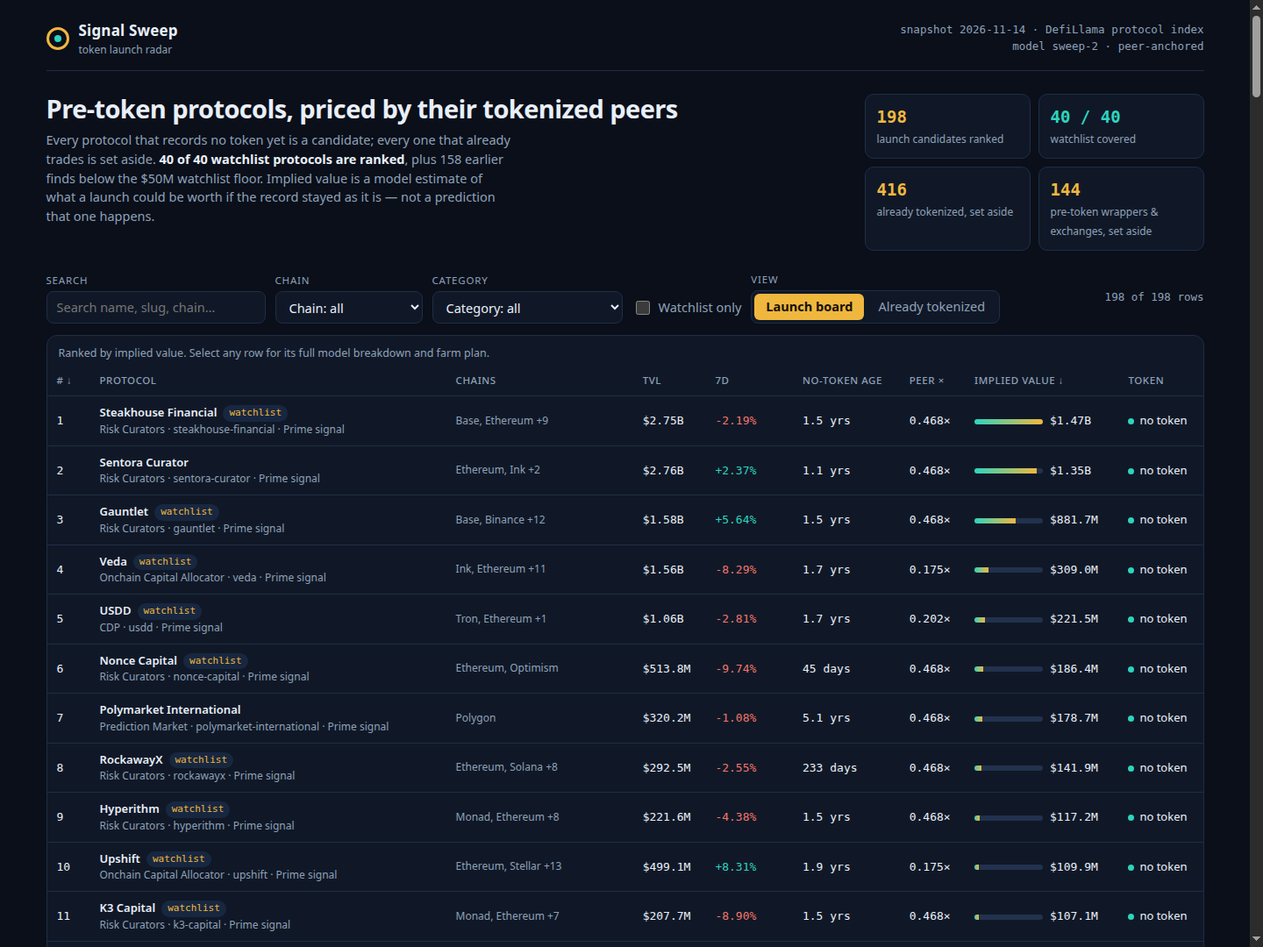
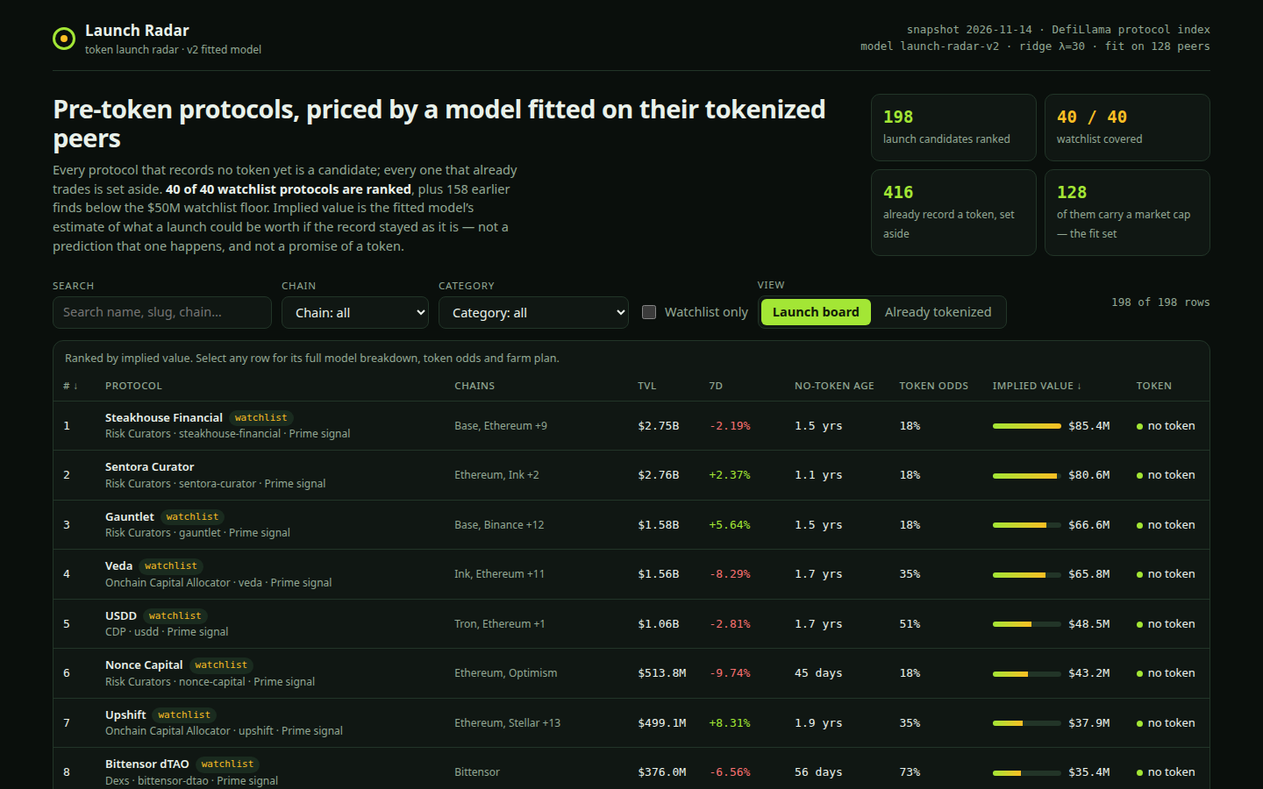
Launch Radar v2 dashboard: phosphor theme, methodology view, token odds
Sortable/filterable board with token-odds column, per-protocol detail
drawer with the additive log-space term breakdown and farm plan, and a
methodology section showing the fitted coefficients, both held-out
validations and the TVL-only baseline. Screenshots retaken from the
real running dashboard: board, detail, filtered.

Changed region(s): [[0.0312, 0.0, 1.0, 1.0]]

diff --git a/dashboard/app.js b/dashboard/app.js
@@ -1,13 +1,15 @@
-// Signal Sweep dashboard. Reads window.RADAR (data.js, written by main.ts beside
-// this folder) and renders the ranked board, chain / category / watchlist filters,
-// sortable columns, a tokenized set-aside view and a per-protocol detail drawer
-// whose farm plan is the exact text board.json carries. Fully offline.
+// Launch Radar v2 dashboard. Reads window.RADAR (data.js, written by main.ts
+// beside this folder) and renders the ranked board, chain / category /
+// watchlist filters, sortable columns, a tokenized set-aside view, a
+// methodology view with the fitted coefficients and both held-out validations,
+// and a per-protocol detail drawer whose model breakdown is the additive
+// log-space sum behind the board figure. Fully offline.
 (function () {
   'use strict';
   var DATA = window.RADAR;
   if (!DATA) return;
   var app = document.getElementById('board');
-  var C = DATA.counts;
+  var C = DATA.counts, M = DATA.model;
   var state = { q: '', category: 'all', chain: 'all', watch: false, tab: 'board', sort: 'implied', dir: -1, selected: null };
 
   var usdFmt = new Intl.NumberFormat('en-US', { style: 'currency', currency: 'USD', maximumFractionDigits: 0 });
@@ -24,20 +26,7 @@
     if (d >= 365) return (d / 365).toFixed(1) + ' yrs';
     return Math.round(d) + ' days';
   }
-  // Recompute the three snapshot-only multipliers for a row, to show in the detail
-  // view that the stored implied value is this arithmetic and nothing else. The
-  // peer multiple itself is read from the row: it is a median over tokenized peers.
-  function parts(row) {
-    var m = DATA.model;
-    var ch = row.change_7d === null || row.change_7d === undefined ? 0 : row.change_7d;
-    ch = Math.min(m.momentum_cap, Math.max(m.momentum_floor, ch));
-    var momentum = 1 + (ch / 100) * m.momentum_gain;
-    var age = row.age_days === null || row.age_days === undefined ? m.unknown_age_days : row.age_days;
-    var longevity = m.longevity_floor + m.longevity_range * Math.sqrt(Math.min(Math.max(age, 0), m.longevity_days) / m.longevity_days);
-    var breadth = 1 + m.breadth_step * Math.min(Math.max((row.chains || []).length - 1, 0), m.breadth_max_extra);
-    return { momentum: momentum, longevity: longevity, breadth: breadth,
-      check: Math.max(1, Math.round(row.tvl_usd * row.peer_multiple * momentum * longevity * breadth)) };
-  }
+  function fmtOdds(o) { return Math.round(o * 100) + '%'; }
   function el(tag, attrs) {
     var node = document.createElement(tag);
     if (attrs) Object.keys(attrs).forEach(function (k) {
@@ -98,7 +87,7 @@
       else if (key === 'tvl') { av = a.tvl_usd; bv = b.tvl_usd; }
       else if (key === 'growth') { av = a.change_7d === null ? -Infinity : a.change_7d; bv = b.change_7d === null ? -Infinity : b.change_7d; }
       else if (key === 'age') { av = a.age_days === null ? -1 : a.age_days; bv = b.age_days === null ? -1 : b.age_days; }
-      else if (key === 'peer') { av = a.peer_multiple; bv = b.peer_multiple; }
+      else if (key === 'odds') { av = a.token_odds; bv = b.token_odds; }
       else { av = a.implied_value_usd; bv = b.implied_value_usd; }
       if (av < bv) return -dir;
       if (av > bv) return dir;
@@ -109,27 +98,27 @@
   function header() {
     return el('header', { class: 'top' },
       el('div', { class: 'brand' }, el('span', { class: 'ring' }),
-        el('div', null, el('b', { text: 'Signal Sweep' }), el('span', { text: 'token launch radar' }))),
+        el('div', null, el('b', { text: 'Launch Radar' }), el('span', { text: 'token launch radar · v2 fitted model' }))),
       el('div', { class: 'meta' },
         'snapshot ' + DATA.as_of + ' · DefiLlama protocol index', el('br'),
-        'model ' + DATA.model_version + ' · peer-anchored'));
+        'model ' + DATA.model_version + ' · ridge λ=' + M.lambda + ' · fit on ' + M.fit_n + ' peers'));
   }
   function hero() {
-    function stat(value, label, teal) {
-      return el('div', { class: 'stat' + (teal ? ' teal' : '') }, el('b', { text: value }), el('span', { text: label }));
+    function stat(value, label, amber) {
+      return el('div', { class: 'stat' + (amber ? ' amber' : '') }, el('b', { text: value }), el('span', { text: label }));
     }
     return el('section', { class: 'hero' },
       el('div', null,
-        el('h1', { text: 'Pre-token protocols, priced by their tokenized peers' }),
-        el('p', { html: '' },
+        el('h1', { text: 'Pre-token protocols, priced by a model fitted on their tokenized peers' }),
+        el('p', null,
           'Every protocol that records no token yet is a candidate; every one that already trades is set aside. ',
           el('b', { text: C.watchlist + ' of ' + C.watchlist + ' watchlist protocols are ranked' }),
-          ', plus ' + C.early + ' earlier finds below the $' + Math.round(DATA.floor_usd / 1e6) + 'M watchlist floor. Implied value is a model estimate of what a launch could be worth if the record stayed as it is — not a prediction that one happens.')),
+          ', plus ' + C.early + ' earlier finds below the $' + Math.round(DATA.floor_usd / 1e6) + 'M watchlist floor. Implied value is the fitted model\u2019s estimate of what a launch could be worth if the record stayed as it is — not a prediction that one happens, and not a promise of a token.')),
       el('div', { class: 'stats' },
         stat(String(C.board), 'launch candidates ranked'),
         stat(C.watchlist + ' / ' + C.watchlist, 'watchlist covered', true),
-        stat(String(C.tokenized), 'already tokenized, set aside'),
-        stat(String(C.not_own_launch), 'pre-token wrappers & exchanges, set aside')));
+        stat(String(C.tokenized), 'already record a token, set aside'),
+        stat(String(M.fit_n), 'of them carry a market cap — the fit set')));
   }
   function controls() {
     var cats = Array.from(new Set(DATA.rows.map(function (r) { return r.category || 'Uncategorised'; }))).sort();
@@ -167,7 +156,7 @@
     var list = sorted(visibleRows());
     if (!list.length) {
       return el('div', { class: 'panel' }, el('div', { class: 'empty' },
-        el('h2', { text: 'Nothing on the sweep matches' }),
+        el('h2', { text: 'Nothing on the radar matches' }),
         el('p', { text: 'Clear the search or widen the chain and category filters.' }),
         el('button', { class: 'btn primary', type: 'button', text: 'Clear all filters', onclick: function () {
           state.q = ''; state.category = 'all'; state.chain = 'all'; state.watch = false; writeHash(); render();
@@ -186,7 +175,7 @@
         el('td', { class: 'num', text: fmtUsd(r.tvl_usd) }),
         el('td', { class: 'num ' + (r.change_7d === null ? '' : r.change_7d >= 0 ? 'pos' : 'neg'), text: fmtPct(r.change_7d) }),
         el('td', { class: 'num', text: fmtAge(r.age_days) }),
-        el('td', { class: 'num', text: r.peer_multiple.toFixed(3) + '×' }),
+        el('td', { class: 'num', text: fmtOdds(r.token_odds) }),
         el('td', null, el('span', { class: 'bar', 'aria-hidden': 'true' }, el('i', { style: 'width:' + Math.max(3, Math.round((r.implied_value_usd / max) * 100)) + '%' })),
           el('span', { class: 'num', text: fmtUsd(r.implied_value_usd) })),
         el('td', null, el('span', null, el('span', { class: 'dot' }), 'no token')));
@@ -194,11 +183,11 @@
     });
     return el('div', { class: 'panel' }, el('div', { class: 'table-wrap' },
       el('table', null,
-        el('caption', { text: 'Ranked by implied value. Select any row for its full model breakdown and farm plan.' }),
+        el('caption', { text: 'Ranked by implied value. Select any row for its full model breakdown, token odds and farm plan.' }),
         el('thead', null, el('tr', null,
           sortHead('implied', '#'), sortHead('name', 'Protocol'), el('th', { scope: 'col', text: 'Chains' }),
           sortHead('tvl', 'TVL'), sortHead('growth', '7d'), sortHead('age', 'No-token age'),
-          sortHead('peer', 'Peer ×'), sortHead('implied', 'Implied value'), el('th', { scope: 'col', text: 'Token' }))),
+          sortHead('odds', 'Token odds'), sortHead('implied', 'Implied value'), el('th', { scope: 'col', text: 'Token' }))),
         tbody)));
   }
   function liveTable() {
@@ -215,7 +204,7 @@
     });
     return el('div', { class: 'panel' }, el('div', { class: 'table-wrap' },
       el('table', null,
-        el('caption', { text: 'Set aside, not ranked: these ' + C.tokenized + ' protocols already record a token, so the market prices them. The largest by market cap are shown; their category medians are the peer evidence behind the board.' }),
+        el('caption', { text: 'Set aside, not ranked: these ' + C.tokenized + ' protocols already record a token, so the market prices them. The largest by market cap are shown; the ' + M.fit_n + ' of them with a market cap are the peers the model was fitted on.' }),
         el('thead', null, el('tr', null,
           el('th', { scope: 'col', text: 'Protocol' }), el('th', { scope: 'col', text: 'Chains' }),
           el('th', { scope: 'col', text: 'TVL' }), el('th', { scope: 'col', text: '7d' }),
@@ -223,21 +212,36 @@
         tbody)));
   }
   function modelPanel() {
-    var m = DATA.model;
+    var v = M.validation, t = M.tvl_only_validation;
+    var catRows = M.categories.map(function (c, i) {
+      return el('tr', null,
+        el('td', { text: c }),
+        el('td', { class: 'num coef', text: (M.category_coefs[i] >= 0 ? '+' : '') + M.category_coefs[i].toFixed(4) }),
+        el('td', { class: 'num coef', text: '×' + Math.exp(M.category_coefs[i]).toFixed(3) }));
+    });
     return el('section', { class: 'panel model' },
-      el('h2', { text: 'How the sweep prices a protocol with no token' }),
-      el('div', { class: 'formula', text: 'implied = TVL × peer_multiple × momentum × longevity × breadth' }),
+      el('h2', { text: 'How the radar prices a protocol with no token' }),
+      el('div', { class: 'formula', text: 'log(implied) = ' + M.intercept.toFixed(4) + ' + ' + M.coef_log_tvl.toFixed(4) + '·ln(TVL) + ' + M.coef_change.toFixed(4) + '·change + ' + M.coef_log_age.toFixed(4) + '·ln(1+age) + ' + M.coef_log_chains.toFixed(4) + '·ln(chains) + category' }),
       el('p', null,
-        el('b', { text: 'Peer multiple — ' }),
-        'the median market-cap ÷ TVL of tokenized protocols in the same category (global median ' + DATA.global_peer_multiple.toFixed(3) + '× across all categories). Each peer ratio is first winsorised into ' + m.ratio_winsor_low + '×–' + m.ratio_winsor_high + '× so one extreme peer cannot rule a category, the category median is shrunk toward the global median with weight ' + m.shrink_k + ', and the result is held between ' + m.peer_floor + '× and ' + m.peer_cap + '×. '),
+        el('b', { text: 'Fitted, not assumed — ' }),
+        'the coefficients above are a ridge regression (λ=' + M.lambda + ') of log market cap on the snapshot\u2019s own figures, fitted on the ' + M.fit_n + ' tokenized protocols that actually carry a market cap. The other ' + M.no_mcap + ' protocols that record a token carry no market cap in the snapshot, so they teach the regression nothing and are excluded, not imputed. 7-day change is clamped to ±30% first; an unreported age is set to the fit set\u2019s median, ' + M.median_age_days + ' days. '),
+      el('div', { class: 'table-wrap' },
+        el('table', null,
+          el('caption', { text: 'Category effects — the log points a category adds, and the multiplier that is. Categories with fewer than 7 fit peers get no dummy and sit at the pooled level.' }),
+          el('thead', null, el('tr', null,
+            el('th', { scope: 'col', text: 'Category' }), el('th', { scope: 'col', text: 'Coefficient' }), el('th', { scope: 'col', text: 'Multiplier' }))),
+          el('tbody', null, catRows))),
       el('p', null,
-        el('b', { text: 'Momentum — ' }),
-        '1 + clamp(change_7d, ' + m.momentum_floor + '%, +' + m.momentum_cap + '%) × ' + m.momentum_gain + '. ' +
-        el('b', { text: 'Longevity — ' }),
-        m.longevity_floor + ' + ' + m.longevity_range + ' × √(age in days ÷ ' + m.longevity_days + '), age being days since DefiLlama first tracked the protocol (' + m.unknown_age_days + ' days when unreported): the longer it has run with no token, the more of its TVL the model trusts. '),
+        el('b', { text: 'Validated held-out, twice — ' }),
+        v[0].name + ': fit on ' + v[0].n_fit + ', tested on ' + v[0].n_test + ' unseen peers, median absolute log error ' + v[0].median_abs_log_error.toFixed(3) + ' (mean ' + v[0].mean_abs_log_error.toFixed(3) + '). ' +
+        v[1].name + ': fit on ' + v[1].n_fit + ', tested on ' + v[1].n_test + ', median ' + v[1].median_abs_log_error.toFixed(3) + ' (mean ' + v[1].mean_abs_log_error.toFixed(3) + '). ' +
+        'A TVL-only baseline scores ' + t[0].median_abs_log_error.toFixed(3) + ' and ' + t[1].median_abs_log_error.toFixed(3) + ' on the same splits, so the extra terms do not beat TVL alone — the ridge penalty keeps them small and they adjust the ranking modestly. In-sample median error is ' + M.in_sample_median_abs_log_error.toFixed(3) + '.'),
+      el('p', { class: 'warn' },
+        el('b', { text: 'Read the error honestly: ' }),
+        'a median log error around 1.2 means the typical fitted value is off by about a factor of three. Market caps are noisy, and this board is a ranking device — which pre-token protocol is worth farming next — not a price forecast.'),
       el('p', null,
-        el('b', { text: 'Breadth — ' }),
-        '1 + ' + m.breadth_step + ' per extra chain beyond the first, up to ' + m.breadth_max_extra + ' extra chains. '),
+        el('b', { text: 'Token odds — ' }),
+        'for each protocol, the share of protocols in its category that already record a token (' + Math.round(M.global_token_share * 100) + '% overall), shrunk toward that overall share with a pseudo-count of 5, so a thin category cannot claim 0% or 100%. It is a peer-rate, not a prediction that this protocol issues one.'),
       el('p', { text: 'Who is not ranked, and why: ' + C.tokenized + ' protocols already record a token (a gecko_id or a symbol in the snapshot) and are priced by the market, not by this model. Of the ' + C.pre_token + ' that record no token, ' + C.not_own_launch + ' are set aside as not a launch of their own — centralised exchanges, bridges and canonical bridges, liquid staking and restaking wrappers, wrapped or staked products and versioned pools of another protocol. The board ranks the other ' + C.board + ', including every one of the ' + C.watchlist + ' watchlist protocols.' }));
   }
 
@@ -249,7 +253,16 @@
     if (!row) return;
     state.selected = slug;
     writeHash();
-    var p = parts(row);
+    var tm = row.terms;
+    var logSum = tm.intercept + tm.log_tvl + tm.change + tm.log_age + tm.log_chains + tm.category;
+    var check = Math.max(1, Math.round(Math.exp(logSum)));
+    var ageFeat = row.age_days === null ? M.median_age_days : row.age_days;
+    var chFeat = row.change_7d === null ? 0 : Math.min(30, Math.max(-30, row.change_7d));
+    function termRow(label, feature, coef, contribution) {
+      return el('div', null,
+        el('span', { text: label + ' — ' + feature }),
+        el('b', { class: 'num', text: (contribution >= 0 ? '+' : '') + contribution.toFixed(3) + '  (×' + Math.exp(contribution).toFixed(3) + ')' }));
+    }
     dialog.textContent = '';
     dialog.appendChild(el('div', { class: 'dhead' },
       el('div', null,
@@ -266,26 +279,26 @@
         el('div', null, el('span', { text: 'Tracked since' }), el('b', { class: 'num', text: row.listed_at || 'unreported' })),
         el('div', null, el('span', { text: 'Age with no token' }), el('b', { class: 'num', text: fmtAge(row.age_days) })),
         el('div', null, el('span', { text: 'Signal tier' }), el('b', { class: 'num', text: row.tier || '' })),
+        el('div', null, el('span', { text: 'Token odds (peer rate)' }), el('b', { class: 'num', text: fmtOdds(row.token_odds) + ' · ' + row.token_odds_tokenized + ' of ' + row.token_odds_n + ' in category' })),
         el('div', null, el('span', { text: 'Implied ÷ TVL' }), el('b', { class: 'num', text: (row.implied_value_usd / row.tvl_usd).toFixed(3) + '×' })))));
     dialog.appendChild(el('section', { class: 'dsec' },
-      el('h3', { text: 'How the model got this value' }),
+      el('h3', { text: 'How the fitted model got this value' }),
       el('div', { class: 'eq' },
-        el('div', null, el('span', { text: 'TVL' }), el('b', { class: 'num', text: fmtUsd(row.tvl_usd) })),
-        el('div', null, el('span', { text: '× peer multiple (' + (row.category || 'category') + ', ' + row.peer_samples + ' tokenized peers)' }), el('b', { class: 'num', text: row.peer_multiple.toFixed(4) + '×' })),
-        el('div', null, el('span', { text: '× momentum (7d change)' }), el('b', { class: 'num', text: p.momentum.toFixed(4) + '×' })),
-        el('div', null, el('span', { text: '× longevity (no-token age)' }), el('b', { class: 'num', text: p.longevity.toFixed(4) + '×' })),
-        el('div', null, el('span', { text: '× breadth (' + (row.chains || []).length + ' chains)' }), el('b', { class: 'num', text: p.breadth.toFixed(4) + '×' })),
+        termRow('Intercept', '—', M.intercept, tm.intercept),
+        termRow('log TVL', 'ln(' + fmtUsd(row.tvl_usd) + ') = ' + Math.log(row.tvl_usd).toFixed(2), M.coef_log_tvl, tm.log_tvl),
+        termRow('7-day change', chFeat.toFixed(1) + '% clamped', M.coef_change, tm.change),
+        termRow('log age', 'ln(1 + ' + ageFeat + ' days)', M.coef_log_age, tm.log_age),
+        termRow('log chains', 'ln(' + (row.chains || []).length + ' chains)', M.coef_log_chains, tm.log_chains),
+        termRow('Category' + (tm.category_name ? ' (' + tm.category_name + ')' : ' (pooled)'), tm.category_name ? 'own dummy' : 'no dummy', 0, tm.category),
         el('div', { class: 'total' }, el('span', { text: 'Implied value' }), el('b', { class: 'num', text: fmtUsd(row.implied_value_usd) }))),
-      el('p', { class: 'note', text: 'Recomputed here from the row figures: ' + fmtUsd(p.check) + (p.check === row.implied_value_usd ? ' — the same number board.json carries.' : ' — differs from the board, so treat the board figure as stale.') + ' An estimate if the record stayed as it is, never a promise of a launch.' })));
+      el('p', { class: 'note', text: 'The six log terms above sum to ' + logSum.toFixed(3) + ', exp of which is ' + fmtUsd(check) + (Math.abs(check - row.implied_value_usd) <= Math.max(2, row.implied_value_usd * 0.001) ? ' — the board figure, to rounding.' : ' — the board figure differs by rounding of the stored terms.') + ' An estimate if the record stayed as it is, never a promise of a launch.' })));
     dialog.appendChild(el('section', { class: 'dsec' },
       el('h3', { text: 'Farm plan — ' + row.farm_steps.length + ' steps' }),
       el('ol', { class: 'steps' }, row.farm_steps.map(function (s) { return el('li', { text: s }); }))));
     if (!dialog.isConnected && app.firstChild) app.appendChild(dialog);
     if (typeof dialog.showModal === 'function') { if (!dialog.open) dialog.showModal(); }
     else dialog.setAttribute('open', '');
-    renderTableOnly();
   }
-  function renderTableOnly() { /* selection highlight refreshes on next full render */ }
   function render() {
     var selected = state.selected;
     app.textContent = '';

diff --git a/dashboard/app.css b/dashboard/app.css
@@ -1,7 +1,7 @@
-/* Signal Sweep — midnight radar theme. One dark canvas, amber signal, teal confirmation. */
+/* Launch Radar v2 — phosphor radar theme. Near-black green ink, lime signal, amber watch. */
 :root{
-  --bg:#0a0f1a; --panel:#101827; --panel2:#0d1420; --ink:#e9eff8; --muted:#8fa1b7;
-  --line:#1f2d45; --amber:#f0b73f; --teal:#2dd4bf; --red:#f2766b; --chip:#182740;
+  --bg:#0a0f0c; --panel:#101713; --panel2:#0c120e; --ink:#e9f1ea; --muted:#93a894;
+  --line:#223528; --lime:#a3e635; --amber:#fbbf24; --red:#f87171; --chip:#1a2b1f;
   --r:10px; --font:system-ui,-apple-system,"Segoe UI",sans-serif;
   --mono:ui-monospace,"SF Mono",Menlo,Consolas,monospace;
 }
@@ -17,12 +17,12 @@ button,input,select{font:inherit;color:inherit}
 button{cursor:pointer}
 .skip{position:absolute;left:-9999px;top:0;padding:8px 14px;background:var(--panel);z-index:30}
 .skip:focus{left:12px;top:12px}
-:focus-visible{outline:2px solid var(--amber);outline-offset:2px}
+:focus-visible{outline:2px solid var(--lime);outline-offset:2px}
 .shell{max-width:1360px;margin:0 auto;padding:22px 20px 48px}
 .top{display:flex;justify-content:space-between;align-items:center;gap:16px;padding-bottom:14px;border-bottom:1px solid var(--line)}
 .brand{display:flex;align-items:center;gap:11px}
-.ring{width:26px;height:26px;border-radius:50%;border:3px solid var(--amber);position:relative;flex:none}
-.ring::after{content:"";position:absolute;inset:6px;border-radius:50%;background:var(--teal)}
+.ring{width:26px;height:26px;border-radius:50%;border:3px solid var(--lime);position:relative;flex:none}
+.ring::after{content:"";position:absolute;inset:6px;border-radius:50%;background:var(--amber)}
 .brand b{font-size:17px;letter-spacing:.01em}
 .brand span{display:block;color:var(--muted);font-size:12px}
 .meta{color:var(--muted);font-size:12.5px;text-align:right;font-family:var(--mono)}
@@ -31,9 +31,9 @@ button{cursor:pointer}
 .hero p b{color:var(--ink)}
 .stats{display:grid;grid-template-columns:1fr 1fr;gap:9px}
 .stat{background:var(--panel);border:1px solid var(--line);border-radius:var(--r);padding:11px 13px}
-.stat b{display:block;font-family:var(--mono);font-size:19px;font-weight:600;color:var(--amber)}
+.stat b{display:block;font-family:var(--mono);font-size:19px;font-weight:600;color:var(--lime)}
 .stat span{color:var(--muted);font-size:12px}
-.stat.teal b{color:var(--teal)}
+.stat.amber b{color:var(--amber)}
 .controls{display:flex;flex-wrap:wrap;align-items:end;gap:11px;padding:16px 0 13px}
 .field{display:grid;gap:4px}
 .field label,.field .lab{color:var(--muted);font-size:11.5px;text-transform:uppercase;letter-spacing:.07em}
@@ -41,9 +41,9 @@ button{cursor:pointer}
 .field input{min-width:250px}
 .tabs{display:flex;gap:3px;padding:3px;border:1px solid var(--line);border-radius:8px;background:var(--panel)}
 .tabs button{min-height:30px;padding:0 13px;border:0;border-radius:6px;background:transparent;color:var(--muted)}
-.tabs button[aria-pressed="true"]{background:var(--amber);color:#141005;font-weight:650}
+.tabs button[aria-pressed="true"]{background:var(--lime);color:#131a08;font-weight:650}
 .check{display:flex;align-items:center;gap:7px;min-height:37px;color:var(--muted)}
-.check input{accent-color:var(--amber);width:16px;height:16px}
+.check input{accent-color:var(--lime);width:16px;height:16px}
 .count{margin-left:auto;color:var(--muted);font-size:12.5px;font-family:var(--mono);align-self:center}
 .panel{background:var(--panel);border:1px solid var(--line);border-radius:12px;overflow:hidden}
 .table-wrap{overflow-x:auto}
@@ -52,32 +52,36 @@ caption{text-align:left;color:var(--muted);font-size:12.5px;padding:11px 13px 3p
 th,td{padding:9px 11px;border-bottom:1px solid var(--line);text-align:left;vertical-align:middle;white-space:nowrap}
 th{color:var(--muted);font-size:11.5px;font-weight:550;text-transform:uppercase;letter-spacing:.05em}
 th button{border:0;background:none;padding:0;color:inherit;font:inherit;text-transform:inherit;letter-spacing:inherit}
-th button:hover{color:var(--amber)}
+th button:hover{color:var(--lime)}
 tbody tr{cursor:pointer}
 tbody tr:hover{background:var(--panel2)}
-tbody tr[data-selected="true"]{background:#1a2438}
+tbody tr[data-selected="true"]{background:#1d2f22}
 .num{font-family:var(--mono);font-variant-numeric:tabular-nums}
 .name b{font-weight:620}
 .name .sub,.sub{color:var(--muted);font-size:12px}
-.pos{color:var(--teal)} .neg{color:var(--red)}
-.bar{width:78px;height:6px;border-radius:3px;background:#22314d;overflow:hidden;display:inline-block;vertical-align:middle;margin-right:8px}
-.bar i{display:block;height:100%;background:linear-gradient(90deg,var(--teal),var(--amber))}
+.pos{color:var(--lime)} .neg{color:var(--red)}
+.bar{width:78px;height:6px;border-radius:3px;background:#223528;overflow:hidden;display:inline-block;vertical-align:middle;margin-right:8px}
+.bar i{display:block;height:100%;background:linear-gradient(90deg,var(--lime),var(--amber))}
 .badge{display:inline-block;padding:1px 7px;border-radius:99px;background:var(--chip);color:var(--amber);font-size:11px;font-family:var(--mono);margin-left:7px;vertical-align:1px}
-.dot{display:inline-block;width:7px;height:7px;border-radius:50%;background:var(--teal);margin-right:6px}
+.dot{display:inline-block;width:7px;height:7px;border-radius:50%;background:var(--lime);margin-right:6px}
 .dot.off{background:#43536c}
 .model{margin-top:15px;padding:19px 21px;display:grid;gap:10px}
-.formula{font-family:var(--mono);font-size:13px;line-height:1.75;color:var(--amber);background:var(--panel2);border:1px solid var(--line);border-radius:8px;padding:11px 14px;overflow-wrap:anywhere}
+.formula{font-family:var(--mono);font-size:13px;line-height:1.75;color:var(--lime);background:var(--panel2);border:1px solid var(--line);border-radius:8px;padding:11px 14px;overflow-wrap:anywhere}
 .model p{color:var(--muted);max-width:105ch}
 .model p b{color:var(--ink)}
+.model table{font-size:12.5px}
+.model th,.model td{white-space:normal}
+.coef{font-family:var(--mono)}
+.warn{border-left:3px solid var(--amber);padding:2px 0 2px 12px}
 .empty{padding:52px 20px;text-align:center;display:grid;gap:10px;justify-items:center}
 .empty p{color:var(--muted)}
 .btn{min-height:36px;padding:0 15px;border:1px solid var(--line);border-radius:8px;background:var(--panel2);color:var(--ink)}
-.btn.primary{background:var(--amber);border-color:var(--amber);color:#141005;font-weight:650}
-.detail{position:fixed;top:0;right:0;bottom:0;width:min(540px,94vw);z-index:20;background:var(--panel);border:0;border-left:1px solid var(--line);padding:22px;overflow-y:auto;margin:0 0 0 auto;max-height:100%;color:var(--ink)}
-.detail::backdrop{background:rgba(3,6,12,.62)}
+.btn.primary{background:var(--lime);border-color:var(--lime);color:#131a08;font-weight:650}
+.detail{position:fixed;top:0;right:0;bottom:0;width:min(560px,94vw);z-index:20;background:var(--panel);border:0;border-left:1px solid var(--line);padding:22px;overflow-y:auto;margin:0 0 0 auto;max-height:100%;color:var(--ink)}
+.detail::backdrop{background:rgba(3,6,4,.66)}
 .detail[hidden]{display:none}
 .dhead{display:flex;align-items:start;justify-content:space-between;gap:14px}
-.kicker{color:var(--amber);font-family:var(--mono);font-size:12px;text-transform:uppercase;letter-spacing:.07em}
+.kicker{color:var(--lime);font-family:var(--mono);font-size:12px;text-transform:uppercase;letter-spacing:.07em}
 .close{flex:none;min-height:32px;padding:0 11px;border:1px solid var(--line);border-radius:8px;background:var(--panel2)}
 .dsec{margin-top:20px;padding-top:15px;border-top:1px solid var(--line)}
 .dsec h3{margin-bottom:9px}
@@ -85,11 +89,11 @@ tbody tr[data-selected="true"]{background:#1a2438}
 .eq div{display:flex;justify-content:space-between;gap:14px}
 .eq span{color:var(--muted)}
 .eq .total{border-top:1px solid var(--line);padding-top:7px;margin-top:3px}
-.eq .total b{color:var(--amber);font-size:15px}
+.eq .total b{color:var(--lime);font-size:15px}
 .note{color:var(--muted);font-size:12.5px;margin-top:9px}
 .steps{margin:0;padding-left:21px;display:grid;gap:11px}
 .steps li{padding-left:3px}
-.steps li::marker{color:var(--amber);font-family:var(--mono)}
+.steps li::marker{color:var(--lime);font-family:var(--mono)}
 .chips{display:flex;flex-wrap:wrap;gap:6px}
 .chips span{background:var(--chip);border-radius:99px;padding:2px 10px;font-size:12px;font-family:var(--mono)}
 @media (max-width:920px){

diff --git a/dashboard/index.html b/dashboard/index.html
@@ -3,7 +3,7 @@
 <head>
 <meta charset="utf-8">
 <meta name="viewport" content="width=device-width, initial-scale=1">
-<title>Signal Sweep — Token Launch Radar</title>
+<title>Launch Radar — Token Launch Radar</title>
 <link rel="stylesheet" href="app.css">
 </head>
 <body>
